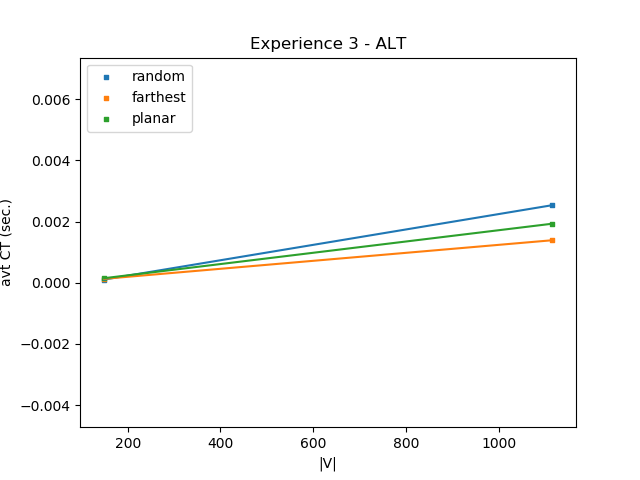
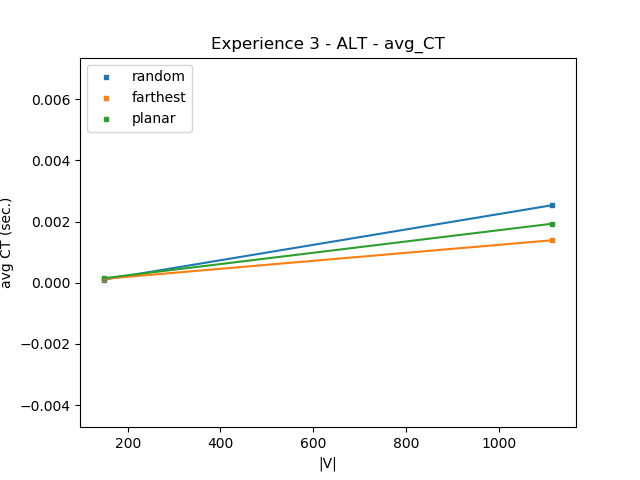
Visualization.py : all plots with all parameters for exp1 -> exp10

Changed region(s): [[0.3125, 0.0625, 0.6875, 0.125], [0.0, 0.4062, 0.0312, 0.5938]]

diff --git a/version_py/Visualization.py b/version_py/Visualization.py
@@ -130,7 +130,7 @@ def plotImprovementsExp7(filename, title, ylabel, xlabel, ymetric, speeds, graph
                     avg_metric_ALT = stats[graph][k]["ALT"][ymetric]
                     if avg_metric_ALT == 0.0:
                         print(avg_metric_dijkstra, avg_metric_ALT)
-                        avg_metric_ALT = (avg_metric_dijkstra)/10
+                        avg_metric_ALT = (avg_metric_dijkstra) / 10
                     improv = round(avg_metric_dijkstra / avg_metric_ALT, 6)
                     y.append(improv)
 
@@ -186,7 +186,7 @@ def plotModalitiesLines(filename, title, ylabel, xlabel, graph, categories, algo
         plt.xticks(x, x)
 
     # show
-    plt.legend(bbox_to_anchor=(0, 1, 1, 0), loc="lower left",  mode="expand", ncol=4)
+    plt.legend(bbox_to_anchor=(0, 1, 1, 0), loc="lower left", mode="expand", ncol=4)
     show(None, "", ylabel, xlabel, save_filename)
 
 
@@ -227,3 +227,215 @@ def plotExp9Result(filename, title, ylabel, xlabel, xmetric, ymetric, graph, sav
 
     show("upper left", title, ylabel, xlabel, save_filename)
 
+
+# ====================================================
+
+def plotExp1(metrics):
+    """
+
+    """
+    categories = ["bin", "fib", "list"]
+
+    for metric in metrics:
+        save_filename = FILE_EXP1 + "plot_" + metric + ".png"
+        plotBenchmarkResult(FILE_EXP1_ALL,
+                            "Experience 1 - Dijkstra - " + metric,
+                            categories, metrics[metric], "|V|", metric,
+                            save_filename)
+
+
+def plotExp2(metrics):
+    """
+
+    """
+    categories = ["euclidean", "manhattan", "octile"]
+
+    for metric in metrics:
+        save_filename = FILE_EXP2 + "plot_" + metric + ".png"
+        plotBenchmarkResult(FILE_EXP2_ALL,
+                            "Experience 2 - A* - " + metric,
+                            categories, metrics[metric], "|V|", metric,
+                            save_filename)
+
+
+def plotExp3(metrics):
+    """
+
+    """
+    categories = ["random", "farthest", "planar"]
+
+    for metric in metrics:
+        save_filename = FILE_EXP3 + "plot_" + metric + ".png"
+        plotBenchmarkResult(FILE_EXP3_ALL,
+                            "Experience 3 - ALT - " + metric,
+                            categories, metrics[metric], "|V|", metric,
+                            save_filename)
+
+
+def plotExp4(metrics):
+    """
+
+    """
+    categories = ["1", "2", "4", "8", "16", "32"]
+
+    for metric in metrics:
+        save_filename = FILE_EXP4 + "plot_" + metric + ".png"
+        plotBenchmarkResult(FILE_EXP4_ALL,
+                            "Experience 4 - ALT - " + metric,
+                            categories, metrics[metric], "|V|", metric,
+                            save_filename)
+
+
+def plotExp5(metrics, improvements):
+    """
+
+    """
+    # plot standard metrics
+    categories = ["Dijkstra", "A*", "ALT", "BidiDijkstra", "BidiAstar", "BidiALT"]
+
+    for metric in metrics:
+        save_filename = FILE_EXP5 + "plot_" + metric + ".png"
+        plotBenchmarkResult(FILE_EXP5_ALL,
+                            "Experience 5 - Single-modal car networks - " + metric,
+                            categories, metrics[metric], "|V|", metric,
+                            save_filename)
+
+    # plot : |V| - improv (1 for speedup, 1 for rel, 1 for SS
+    categories = ["A*", "ALT", "BidiDijkstra", "BidiAstar", "BidiALT"]
+
+    for metric in improvements:
+        save_filename = FILE_EXP5 + "plot_improv_" + metric + ".png"
+        plotImprovementsResult(FILE_EXP5_ALL,
+                               "Experience 5 - Improvement - " + metric,
+                               categories, improvements[metric], "|V|",
+                               metric, save_filename)
+
+    # plot : |V| - avg deg
+    save_filename = FILE_EXP5 + "plot_avg_deg.png"
+    plotAvgDegResult(FILE_EXP5_ALL, "Experience 5 - avg degree",
+                     "avg deg", "|V|", save_filename)
+
+
+def plotExp6():
+    """
+
+    """
+    save_filename = FILE_EXP6 + "plot_prepro_CT.png"
+    plotPreprocessingResult(FILE_EXP6_ALL,
+                            "Experience 6 - Preprocessing",
+                            "computation time (sec.)", "|V|",
+                            save_filename)
+
+
+def plotExp7(metrics, improvements, graphs):
+    """
+    TODO : prendre tous les algos (Dijkstra et ALT) et tous les graphs
+    1 -> 6
+    """
+    speeds = [0.1, 15, 30, 90, 120, 1e10]
+
+    for graph in graphs:
+        for metric in metrics:
+            save_filename = FILE_EXP7 + "plot_" + metric + "_" + graph + ".png"
+            plotExp7Result(FILE_EXP7_ALL,
+                           "Experience 7 - Nb added edges - " + metric + " - " + graph,
+                           metrics[metric], "|added edges|", metric,
+                           speeds, "ALT", graph, save_filename)
+
+        for metric in improvements:
+            save_filename = FILE_EXP7 + "plot_improv_" + metric + "_" + graph + ".png"
+            plotImprovementsExp7(FILE_EXP7_ALL,
+                                 "Experience 7 - improvement - " + metric + " - " + graph,
+                                 improvements[metric], "|added edges|", metric,
+                                 speeds, graph, save_filename)
+
+        save_filename = FILE_EXP7 + "plot_avgDeg_" + graph + ".png"
+        plotExp7AvgDegResult(FILE_EXP7_ALL, "Experience 7 - avg deg - " + graph,
+                             "avg deg after", "|added edges|", speeds,
+                             graph, save_filename)
+
+
+def plotExp8(metrics):
+    """
+
+    """
+    categories = ["Dijkstra", "ALT"]
+
+    # plot standard metrics
+    for metric in metrics:
+        save_filename = FILE_EXP8 + "plot_" + metric + ".png"
+        plotBenchmarkResult(FILE_EXP8_ALL,
+                            "Experience 8 - Multi-modal station-based - " + metric,
+                            categories, metrics[metric], "|V|",
+                            metric, save_filename)
+
+    # plot : modality1 - modality2 for Dijkstra & ALT
+    save_filename = FILE_EXP8 + "plot_piechart_Dijkstra.png"
+    plotModalitiesPieChart(FILE_EXP8_ALL,
+                           "Experience 8 - Pie chart modalities",
+                           "1_ULB", "Dijkstra", save_filename)
+
+
+def plotExp9(metrics, graphs):
+    """
+
+    """
+    for graph in graphs:
+        for metric in metrics:
+            save_filename = FILE_EXP9 + "plot_" + metric + "_" + graph + ".png"
+            plotExp9Result(FILE_EXP9_ALL, "Experience 9 - prefs - " + metric + " - " + graph,
+                           metrics[metric], "c2", "c2", metric,
+                           graph, save_filename)
+
+        save_filename = FILE_EXP9 + "plot_travelTypes_" + graph + ".png"
+        plotModalitiesLines(FILE_EXP9_ALL, "Experience 9 - Travel types - " + graph,
+                            "Travel types frequency", "c2", graph,
+                            ["Villo", "fromStation", "toStation", "car"],
+                            "Dijkstra", "c2", save_filename)
+
+
+def plotExp10(metrics, graphs):
+    """
+
+    """
+    for graph in graphs:
+        for metric in metrics:
+            save_filename = FILE_EXP10 + "plot_" + metric + "_" + graph + ".png"
+            plotExp9Result(FILE_EXP10_ALL, "Experience 10 - prefs - " + metric + " - " + graph,
+                           metrics[metric], "c2", "c2", metric,
+                           graph, save_filename)
+
+        save_filename = FILE_EXP10 + "plot_travelTypes_" + graph + ".png"
+        plotModalitiesLines(FILE_EXP10_ALL, "Experience 10 - Travel types - " + graph,
+                            "Travel types frequency", "c2", graph,
+                            ["Villo", "fromStation", "toStation", "car"],
+                            "Dijkstra", "c2", save_filename)
+
+
+# ===============================================================
+
+def main():
+    metrics = {"avg_CT": "avg CT (sec.)",
+               "avg_rel": "avg nb rel edges",
+               "avg_SS": "avg search space size"}
+
+    improvements = {"avg_CT": "Speedup (CT)",
+                    "avg_rel": "avg relaxed edges improvement",
+                    "avg_SS": "avg search space size improvement"}
+
+    graphs = [GRAPH_1_NAME, GRAPH_2_NAME, GRAPH_3_NAME, GRAPH_4_NAME, GRAPH_5_NAME, GRAPH_6_NAME]
+
+    plotExp1(metrics)
+    plotExp2(metrics)
+    plotExp3(metrics)
+    plotExp4(metrics)
+    plotExp5(metrics, improvements)
+    plotExp6()
+    plotExp7(metrics, improvements, [GRAPH_1_NAME])
+    plotExp8(metrics)
+    plotExp9(metrics, [GRAPH_1_NAME])
+    plotExp10(metrics, [GRAPH_1_NAME])
+
+
+if __name__ == "__main__":
+    main()

diff --git a/version_py/Dijkstra.py b/version_py/Dijkstra.py
@@ -152,7 +152,7 @@ class Dijkstra(ShortestPath):
         while self.unvisited:  # not empty
             self.search_space_size += 1
             _, v = self.getHighestPriorityNode()
-            self.search_space.append( (self.preds[v], [v]) )
+            self.search_space.append((self.preds[v], [v]))
             if v in self.closed_set:
                 continue
             elif v == self.t :#or self.graph.getGeoCoords(v) == self.graph.getGeoCoords(self.t):

diff --git a/version_py/Astar.py b/version_py/Astar.py
@@ -41,4 +41,4 @@ class Astar(Dijkstra):
                 self.preds[neighbour] = v
                 self.dists_so_far[neighbour] = new_dist
                 estimation = new_dist + self.h(neighbour)  # heuristic estimation
-                self.pushPriorityQueue( (estimation, neighbour))
+                self.pushPriorityQueue((estimation, neighbour))
